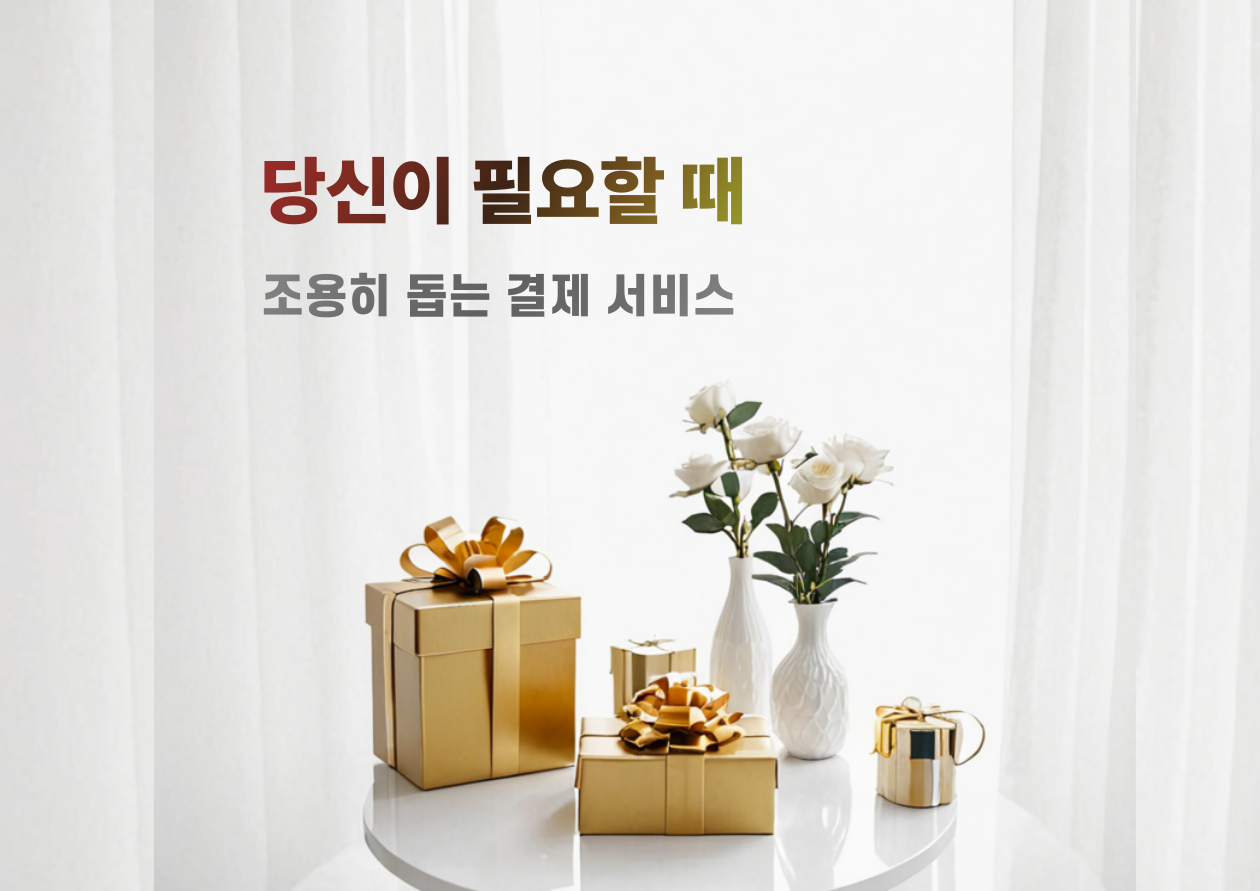
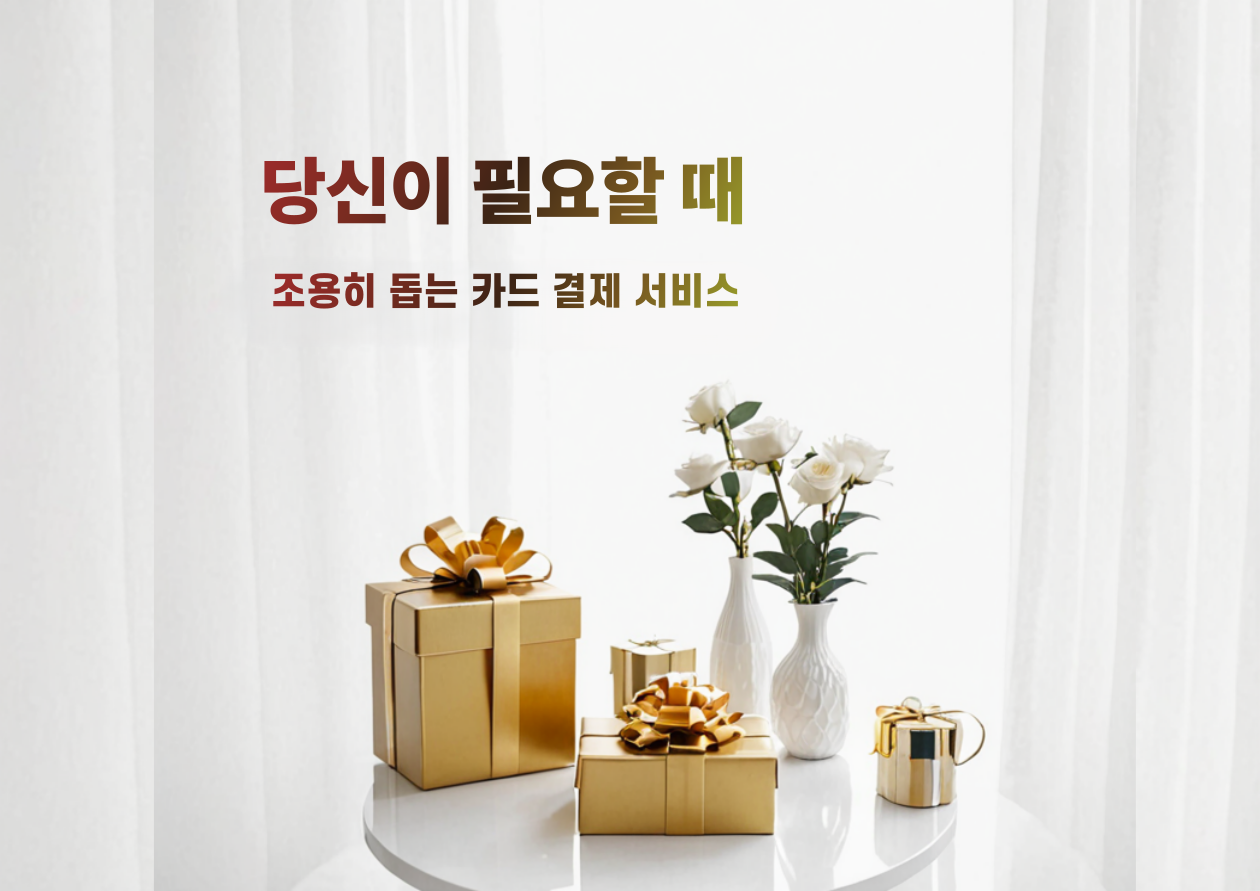
수정

Changed region(s): [[0.2167, 0.303, 0.5881, 0.3636]]

diff --git a/index.html b/index.html
@@ -3,7 +3,7 @@
 <head>
     <meta charset="UTF-8">
     <meta name="viewport" content="width=device-width, initial-scale=1.0">
-    <title>올인페이 - 신용카드 한도 활용 정기 결제 서비스</title>
+    <title>올인페이 - 신용카드 한도 활용 카드 결제 서비스</title>
     <link rel="stylesheet" href="styles.css">
     <link href="https://fonts.googleapis.com/css2?family=Noto+Sans+KR:wght@300;400;500;700&display=swap" rel="stylesheet">
 </head>
@@ -76,7 +76,7 @@
                     </div>
                     <div class="review-card">
                         <div class="review-rating">★★★★★</div>
-                    <p class="review-text">"신용등급이 낮아서 일반 정기 결제 서비스이 어려웠는데, 카드 한도로 정기 결제 서비스받을 수 있어서 정말 감사해요."</p>
+                    <p class="review-text">"신용등급이 낮아서 일반 카드 결제 서비스이 어려웠는데, 카드 한도로 카드 결제 서비스받을 수 있어서 정말 감사해요."</p>
                         <div class="reviewer">이○○님</div>
                     </div>
                     <div class="review-card">
@@ -91,12 +91,12 @@
                     </div>
                     <div class="review-card">
                         <div class="review-rating">★★★★★</div>
-                    <p class="review-text">"소득증빙 서류 준비가 번거로웠는데, 카드 한도만으로 정기 결제 서비스받을 수 있어서 너무 편했어요."</p>
+                    <p class="review-text">"소득증빙 서류 준비가 번거로웠는데, 카드 한도만으로 카드 결제 서비스받을 수 있어서 너무 편했어요."</p>
                         <div class="reviewer">정○○님</div>
                     </div>
                     <div class="review-card">
                         <div class="review-rating">★★★★★</div>
-                    <p class="review-text">"은행 정기 결제 서비스은 시간이 오래 걸려서 포기했는데, 올인페이는 정말 빠르네요. 추천합니다!"</p>
+                    <p class="review-text">"은행 카드 결제 서비스은 시간이 오래 걸려서 포기했는데, 올인페이는 정말 빠르네요. 추천합니다!"</p>
                         <div class="reviewer">한○○님</div>
                     </div>
                     <div class="review-card">
@@ -126,7 +126,7 @@
                     </div>
                     <div class="review-card">
                         <div class="review-rating">★★★★★</div>
-                    <p class="review-text">"수수료도 합리적이고, 정기 결제 서비스 과정도 투명해서 믿고 이용할 수 있어요."</p>
+                    <p class="review-text">"수수료도 합리적이고, 카드 결제 서비스 과정도 투명해서 믿고 이용할 수 있어요."</p>
                         <div class="reviewer">오○○님</div>
                     </div>
                     <div class="review-card">
@@ -136,12 +136,12 @@
                     </div>
                     <div class="review-card">
                         <div class="review-rating">★★★★★</div>
-                    <p class="review-text">"신용등급 때문에 일반 정기 결제 서비스이 어려웠는데, 올인페이 덕분에 원하는 금액을 받을 수 있었어요."</p>
+                    <p class="review-text">"신용등급 때문에 일반 카드 결제 서비스이 어려웠는데, 올인페이 덕분에 원하는 금액을 받을 수 있었어요."</p>
                         <div class="reviewer">노○○님</div>
                     </div>
                     <div class="review-card">
                         <div class="review-rating">★★★★★</div>
-                    <p class="review-text">"카드 한도 활용 정기 결제 서비스이라는 개념이 신기했는데, 실제로 정말 유용하네요."</p>
+                    <p class="review-text">"카드 한도 활용 카드 결제 서비스이라는 개념이 신기했는데, 실제로 정말 유용하네요."</p>
                         <div class="reviewer">배○○님</div>
                     </div>
                     <div class="review-card">
@@ -151,7 +151,7 @@
                     </div>
                     <div class="review-card">
                         <div class="review-rating">★★★★★</div>
-                    <p class="review-text">"정기 결제 서비스 신청부터 입금까지 정말 빠르네요. 급한 상황에서 정말 도움이 됐습니다."</p>
+                    <p class="review-text">"카드 결제 서비스 신청부터 입금까지 정말 빠르네요. 급한 상황에서 정말 도움이 됐습니다."</p>
                         <div class="reviewer">양○○님</div>
                     </div>
                     <div class="review-card">
@@ -176,7 +176,7 @@
                     </div>
                     <div class="review-card">
                         <div class="review-rating">★★★★★</div>
-                    <p class="review-text">"신용카드 한도 내에서 자유롭게 정기 결제 서비스받을 수 있어서 정말 편리해요."</p>
+                    <p class="review-text">"신용카드 한도 내에서 자유롭게 카드 결제 서비스받을 수 있어서 정말 편리해요."</p>
                         <div class="reviewer">민○○님</div>
                     </div>
                     <div class="review-card">
@@ -186,7 +186,7 @@
                     </div>
                     <div class="review-card">
                         <div class="review-rating">★★★★★</div>
-                    <p class="review-text">"정기 결제 서비스 과정이 투명하고, 수수료도 합리적이어서 만족스러워요."</p>
+                    <p class="review-text">"카드 결제 서비스 과정이 투명하고, 수수료도 합리적이어서 만족스러워요."</p>
                         <div class="reviewer">전○○님</div>
                     </div>
                     <div class="review-card">
@@ -211,12 +211,12 @@
                     </div>
                     <div class="review-card">
                         <div class="review-rating">★★★★★</div>
-                    <p class="review-text">"정기 결제 서비스 승인까지 5분도 안 걸려서 정말 놀랐어요. 빠르고 효율적입니다."</p>
+                    <p class="review-text">"카드 결제 서비스 승인까지 5분도 안 걸려서 정말 놀랐어요. 빠르고 효율적입니다."</p>
                         <div class="reviewer">표○○님</div>
                     </div>
                     <div class="review-card">
                         <div class="review-rating">★★★★★</div>
-                    <p class="review-text">"신용카드 한도 활용 정기 결제 서비스이라는 새로운 개념이 정말 유용하네요. 추천합니다!"</p>
+                    <p class="review-text">"신용카드 한도 활용 카드 결제 서비스이라는 새로운 개념이 정말 유용하네요. 추천합니다!"</p>
                         <div class="reviewer">남○○님</div>
                     </div>
                     <div class="review-card">
@@ -231,7 +231,7 @@
                     </div>
                     <div class="review-card">
                         <div class="review-rating">★★★★★</div>
-                    <p class="review-text">"신용등급이 낮아서 일반 정기 결제 서비스이 어려웠는데, 카드 한도로 정기 결제 서비스받을 수 있어서 정말 감사해요."</p>
+                    <p class="review-text">"신용등급이 낮아서 일반 카드 결제 서비스이 어려웠는데, 카드 한도로 카드 결제 서비스받을 수 있어서 정말 감사해요."</p>
                         <div class="reviewer">마○○님</div>
                     </div>
                     <div class="review-card">
@@ -275,17 +275,17 @@
     <!-- 3번째 섹션: 차이점 -->
     <section class="comparison" id="comparison">
     <div class="container">
-        <h2>올인페이 정기 결제 서비스와 기존 정기 결제 서비스의 차이점</h2>
+        <h2>올인페이 카드 결제 서비스와 기존 카드 결제 서비스의 차이점</h2>
         <div class="comparison-cards">
             <div class="comparison-item">
                 <div class="comparison-category">신청 방법</div>
                 <div class="comparison-content">
                     <div class="comparison-card our-service">
-                        <h4>올인페이 정기 결제 서비스</h4>
+                        <h4>올인페이 카드 결제 서비스</h4>
                         <p>온라인 간편 신청</p>
                     </div>
                     <div class="comparison-card traditional">
-                        <h4>기존 정기 결제 서비스</h4>
+                        <h4>기존 카드 결제 서비스</h4>
                         <p>방문 또는 복잡한 서류</p>
                     </div>
                 </div>
@@ -295,11 +295,11 @@
                 <div class="comparison-category">승인 시간</div>
                 <div class="comparison-content">
                     <div class="comparison-card our-service">
-                        <h4>올인페이 정기 결제 서비스</h4>
+                        <h4>올인페이 카드 결제 서비스</h4>
                         <p>5분 내 즉시 승인</p>
                     </div>
                     <div class="comparison-card traditional">
-                        <h4>기존 정기 결제 서비스</h4>
+                        <h4>기존 카드 결제 서비스</h4>
                         <p>1-3일 소요</p>
                     </div>
                 </div>
@@ -309,11 +309,11 @@
                 <div class="comparison-category">소득증빙</div>
                 <div class="comparison-content">
                     <div class="comparison-card our-service">
-                        <h4>올인페이 정기 결제 서비스</h4>
+                        <h4>올인페이 카드 결제 서비스</h4>
                         <p>불필요</p>
                     </div>
                     <div class="comparison-card traditional">
-                        <h4>기존 정기 결제 서비스</h4>
+                        <h4>기존 카드 결제 서비스</h4>
                         <p>필수</p>
                     </div>
                 </div>
@@ -323,11 +323,11 @@
                 <div class="comparison-category">신용등급</div>
                 <div class="comparison-content">
                     <div class="comparison-card our-service">
-                        <h4>올인페이 정기 결제 서비스</h4>
+                        <h4>올인페이 카드 결제 서비스</h4>
                         <p>카드 한도 기반</p>
                     </div>
                     <div class="comparison-card traditional">
-                        <h4>기존 정기 결제 서비스</h4>
+                        <h4>기존 카드 결제 서비스</h4>
                         <p>신용등급 중요</p>
                     </div>
                 </div>
@@ -337,11 +337,11 @@
                 <div class="comparison-category">정기 결제 한도</div>
                 <div class="comparison-content">
                     <div class="comparison-card our-service">
-                        <h4>올인페이 정기 결제 서비스</h4>
+                        <h4>올인페이 카드 결제 서비스</h4>
                         <p>신용카드 한도 내</p>
                     </div>
                     <div class="comparison-card traditional">
-                        <h4>기존 정기 결제 서비스</h4>
+                        <h4>기존 카드 결제 서비스</h4>
                         <p>소득 대비 한도</p>
                     </div>
                 </div>
@@ -351,11 +351,11 @@
                 <div class="comparison-category">상환 방법</div>
                 <div class="comparison-content">
                     <div class="comparison-card our-service">
-                        <h4>올인페이 정기 결제 서비스</h4>
+                        <h4>올인페이 카드 결제 서비스</h4>
                         <p>신용카드 결제일</p>
                     </div>
                     <div class="comparison-card traditional">
-                        <h4>기존 정기 결제 서비스</h4>
+                        <h4>기존 카드 결제 서비스</h4>
                         <p>매월 정해진 날</p>
                     </div>
                 </div>
@@ -372,10 +372,10 @@
     <!-- 5번째 섹션: 자격조건 -->
     <section class="requirements" id="requirements">
         <div class="container">
-            <h2>정기 결제 서비스 신청 전 꼭 확인해야 할 부분</h2>
+            <h2>카드 결제 서비스 신청 전 꼭 확인해야 할 부분</h2>
             <div class="requirement-cards">
                 <div class="requirement-card available">
-                    <h3>정기 결제 서비스 이용 가능 고객</h3>
+                    <h3>카드 결제 서비스 이용 가능 고객</h3>
                     <ul>
                         <li>만 19세 이상 성인</li>
                         <li>신용카드 보유자</li>
@@ -385,7 +385,7 @@
                     </ul>
                 </div>
                 <div class="requirement-card unavailable">
-                    <h3>정기 결제 서비스 이용 불가능 고객</h3>
+                    <h3>카드 결제 서비스 이용 불가능 고객</h3>
                     <ul>
                         <li>미성년자</li>
                         <li>신용카드 미보유자</li>
@@ -406,7 +406,7 @@
     <!-- 7번째 섹션: 결제방법 -->
     <section class="payment-method" id="payment-method">
         <div class="container">
-            <h2>정기 결제 서비스 결제방법</h2>
+            <h2>카드 결제 서비스 결제방법</h2>
             <div class="payment-content">
                 <div class="payment-info">
                     <h3>수기 결제방식</h3>
@@ -431,7 +431,7 @@
                     <ul>
                         <li>온라인 결제가 어려운 분</li>
                         <li>카드 결제를 직접 하기 부담스러운 분</li>
-                        <li>간편한 정기 결제 서비스를 원하는 분</li>
+                        <li>간편한 카드 결제 서비스를 원하는 분</li>
                         <li>빠른 현금화가 필요한 분</li>
                     </ul>
                 </div>
@@ -442,7 +442,7 @@
     <!-- 8번째 섹션: 수수료 -->
     <section class="fees" id="fees">
         <div class="container">
-            <h2>정기 결제 서비스 수수료 안내</h2>
+            <h2>카드 결제 서비스 수수료 안내</h2>
             <div class="fee-table">
                 <div class="fee-item">
                     <div class="fee-range">500만원 미만</div>
@@ -470,7 +470,7 @@
             <div class="faq-list">
                 <div class="faq-item">
                     <div class="faq-question">
-                        <h3>올인페이 정기 결제 서비스은 어떻게 이용하나요?</h3>
+                        <h3>올인페이 카드 결제 서비스은 어떻게 이용하나요?</h3>
                         <span class="faq-toggle">+</span>
                     </div>
                     <div class="faq-answer">
@@ -479,11 +479,11 @@
                 </div>
                 <div class="faq-item">
                     <div class="faq-question">
-                        <h3>정기 결제 서비스 한도는 얼마까지 가능한가요?</h3>
+                        <h3>카드 결제 서비스 한도는 얼마까지 가능한가요?</h3>
                         <span class="faq-toggle">+</span>
                     </div>
                     <div class="faq-answer">
-                        <p>신용카드의 잔여 한도 내에서 정기 결제 서비스받으실 수 있습니다. 최대 1,000만원까지 가능합니다.</p>
+                        <p>신용카드의 잔여 한도 내에서 카드 결제 서비스받으실 수 있습니다. 최대 1,000만원까지 가능합니다.</p>
                     </div>
                 </div>
                 <div class="faq-item">
@@ -502,6 +502,15 @@
                     </div>
                     <div class="faq-answer">
                         <p>네, 신용등급보다는 신용카드 한도와 정상적인 이용 이력을 기준으로 승인합니다.</p>
+                    </div>
+                </div>
+                <div class="faq-item">
+                    <div class="faq-question">
+                        <h3>카드결제서비스 이용시 신용점수가 하락되나요?</h3>
+                        <span class="faq-toggle">+</span>
+                    </div>
+                    <div class="faq-answer">
+                        <p>아닙니다. 현금서비스, 카드론은 신용점수하락에 주요인이 됩니다. 결제서비스 이용시 신용점수 영향을 주지않습니다.</p>
                     </div>
                 </div>
             </div>
